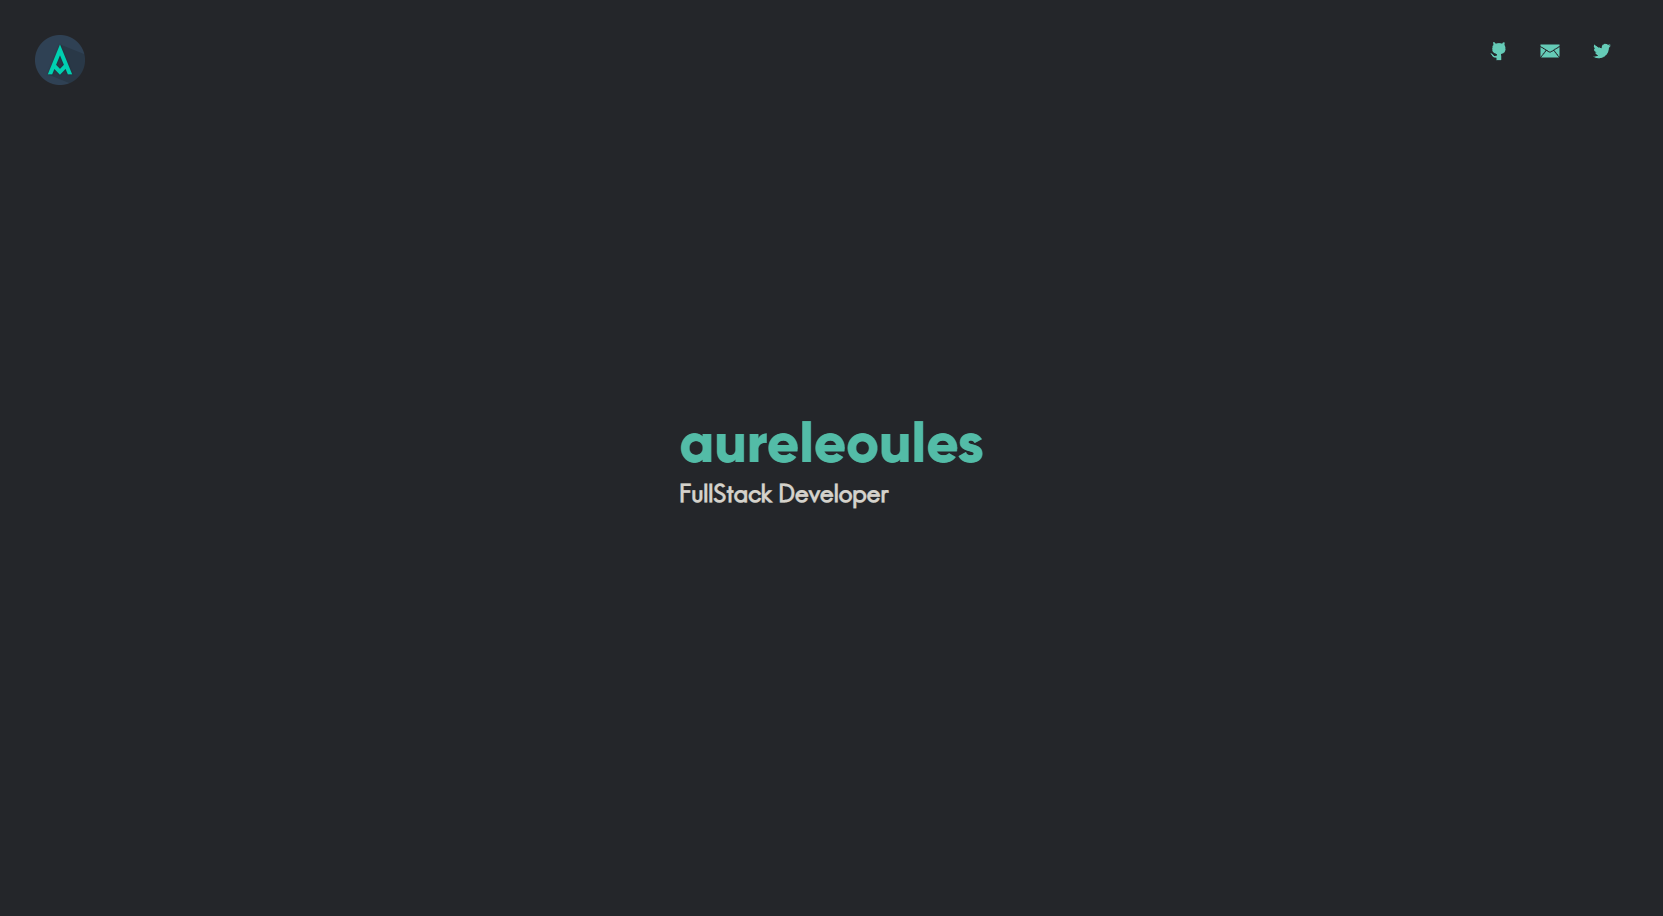
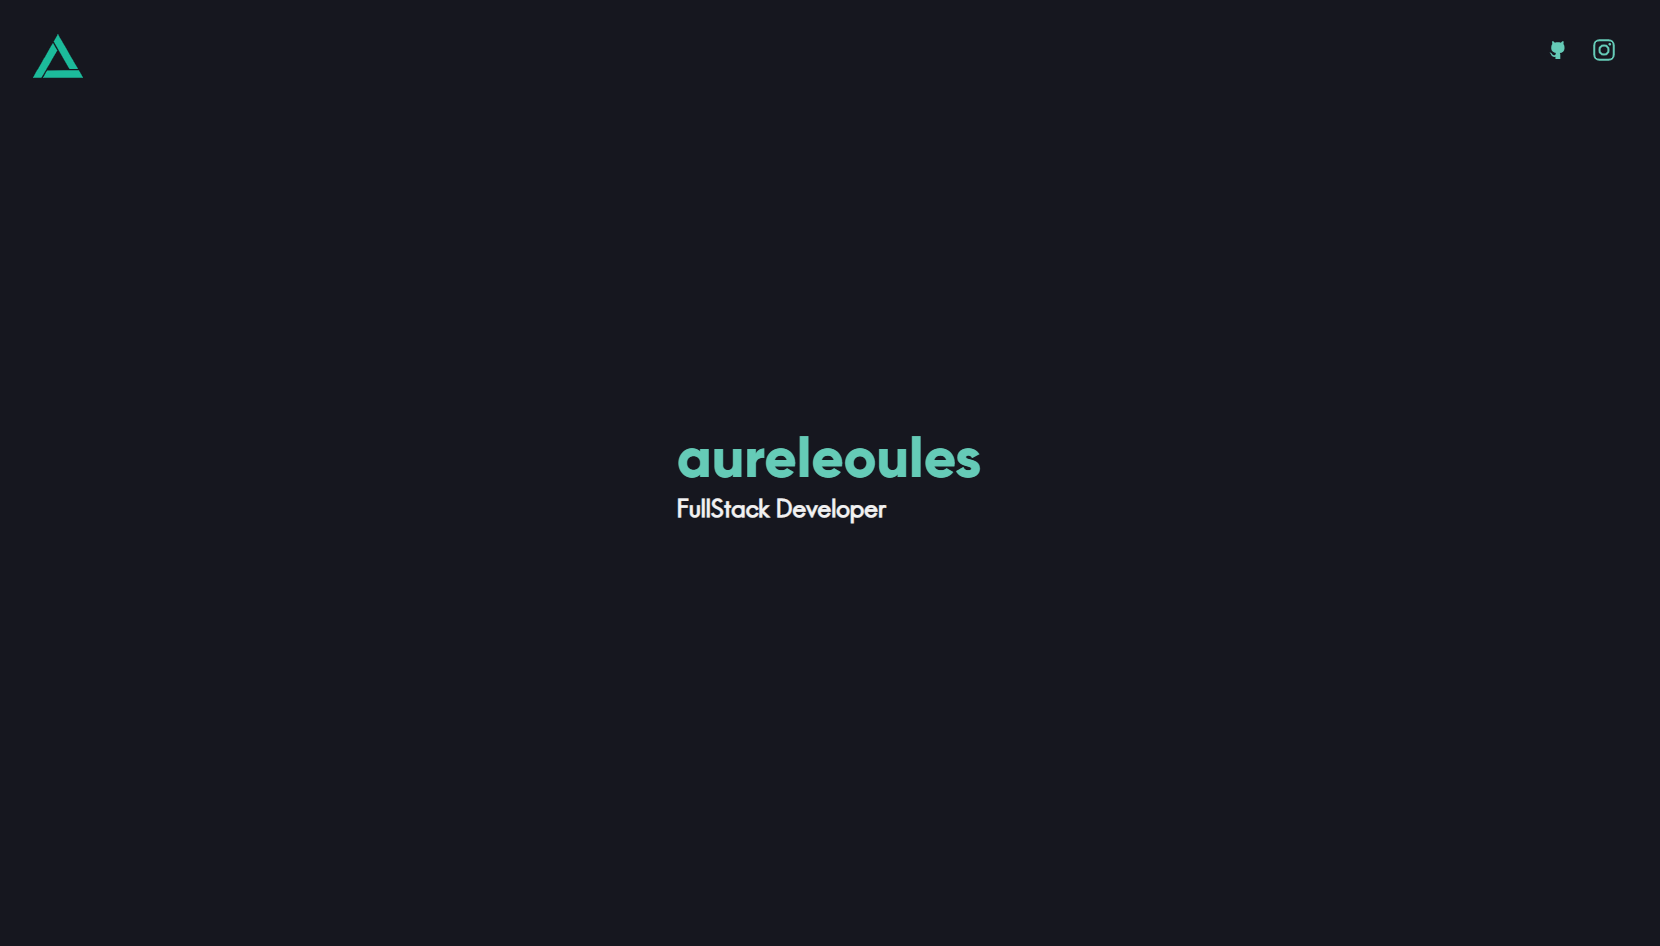
updated site

Changed region(s): [[0.3994, 0.4585, 0.5837, 0.5502], [0.0, 0.0306, 0.0614, 0.0917], [0.891, 0.0306, 0.9831, 0.0611]]

diff --git a/src/fragments/Home/styles.scss b/src/fragments/Home/styles.scss
@@ -11,8 +11,8 @@
     h1 {
         color: $primary;
     }
-    
-    h3  {
+
+    h3 {
         color: $white;
     }
 
@@ -29,33 +29,40 @@
             width: 50px;
         }
     }
+
     .top {
         top: 35px;
         right: 0;
         position: absolute;
         width: 100%;
+
         .socials {
             position: absolute;
             text-align: center;
             right: 35px;
+            display: flex;
+            align-items: center;
+
             a {
+                transition: all 100ms ease-in-out;
                 img {
                     margin: 0px 10px;
                     transition: all 250ms ease-in-out;
                     border-radius: 50%;
                     width: 32px;
                     animation: scale-in-center 0.5s cubic-bezier(0.25, 0.46, 0.45, 0.94) both;
-                }
-                    
-                &:hover {
-                    img {
-                        transform: scale(1.1);
-                        
-                        background: $white;
-                        opacity: 0.9;
+
+                    &.instagram {
+                        border-radius: 0;
+                        width: 22px;
                     }
                 }
-            }   
+
+                &:hover {
+                    transform: scale(1.2)!important;
+                    opacity: 0.8;
+                }
+            }
         }
     }
 }

diff --git a/src/fragments/Home/index.js b/src/fragments/Home/index.js
@@ -19,8 +19,8 @@ class Home extends React.Component {
                             <a rel="noopener noreferrer" href="https://github.com/aureleoules" target="_blank" >
                                     <img alt="GitHub" src={require("../../assets/icons/github.svg")}/>
                                 </a>
-                            <a rel="noopener noreferrer" href="https://twitter.com/aureleoules_" target="_blank">
-                                <img alt="Twitter" src={require("../../assets/icons/twitter.svg")} />
+                            <a rel="noopener noreferrer" href="https://www.instagram.com/aureleoules" target="_blank">
+                                <img alt="Instagram" className="instagram" src={require("../../assets/icons/instagram.svg")} />
                             </a>
                         </div>
                     </div>
